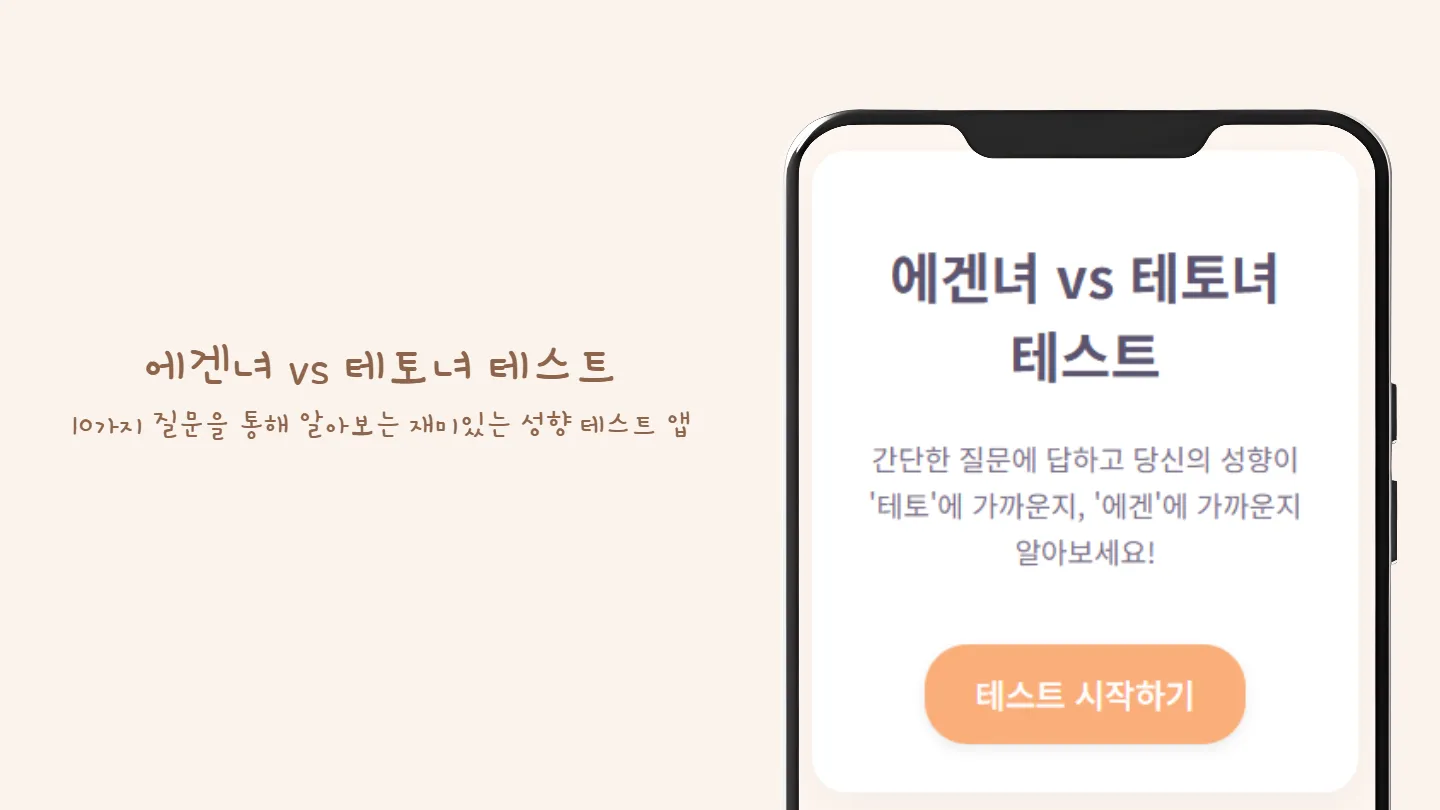
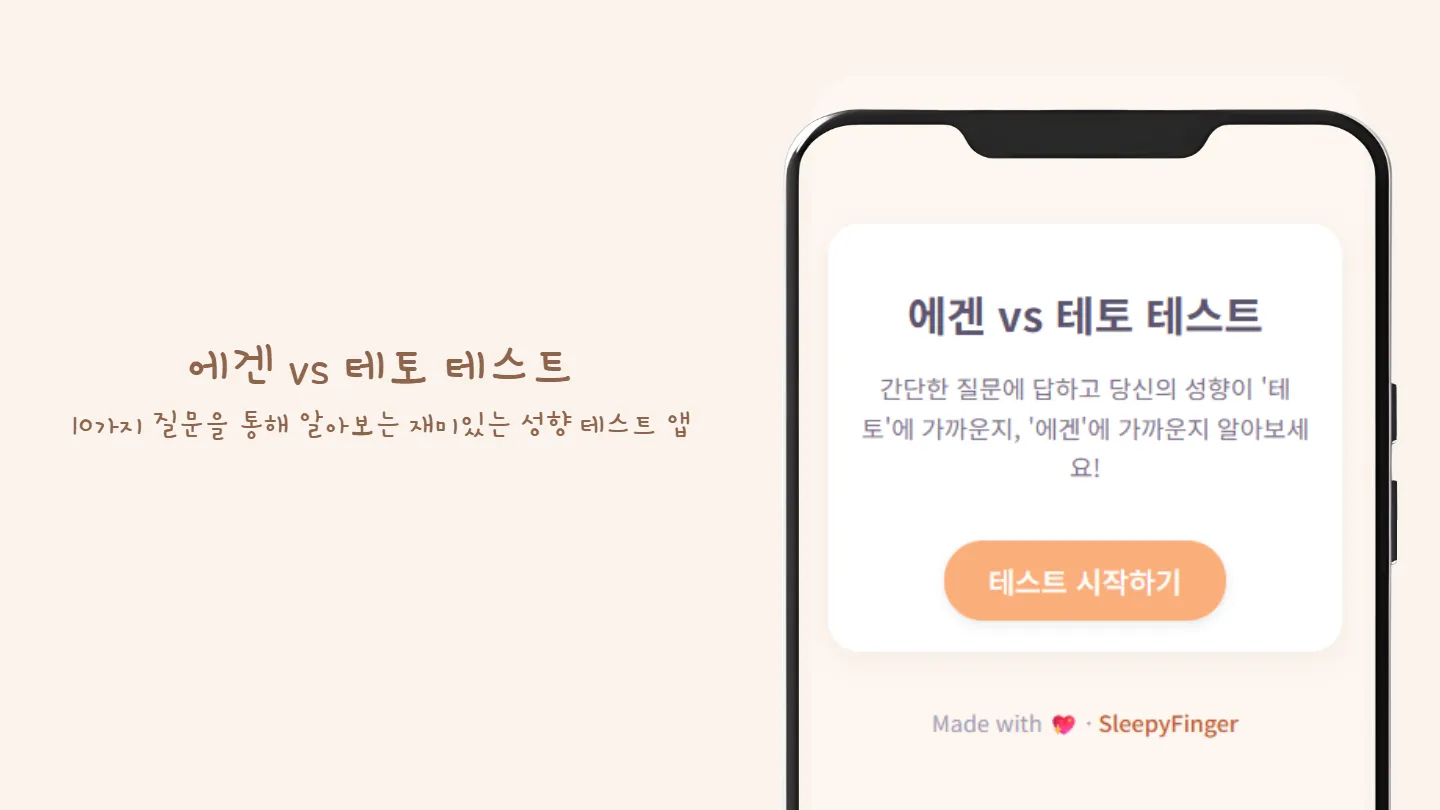
Update title and references in '에겐 vs 테토 테스트' app for consistency

Changed region(s): [[0.5938, 0.3086, 0.9062, 0.9259], [0.2812, 0.4321, 0.4375, 0.4938], [0.0938, 0.4321, 0.1875, 0.4938]]

diff --git a/apps/egen-teto-test/index.html b/apps/egen-teto-test/index.html
@@ -2,7 +2,7 @@
 <html lang="ko">
   <head>
     <meta charset="UTF-8" />
-    <title>에겐녀 테토녀 테스트</title>
+    <title>에겐 테토 테스트</title>
     <meta name="viewport" content="width=device-width, initial-scale=1.0" />
     <style>
       body {
@@ -195,7 +195,7 @@
   </head>
   <body>
     <div class="container">
-      <h1>에겐녀 vs 테토녀 테스트</h1>
+      <h1>에겐 vs 테토 테스트</h1>
 
       <div id="start-screen">
         <p class="description">
@@ -390,9 +390,9 @@
         resultEl.innerHTML = `<div class="icon">${icon}</div><b>${result}</b><br>${desc}`;
 
         lastResultData = {
-          shareApiTitle: "나의 에겐녀 vs 테토녀 테스트 결과!",
+          shareApiTitle: "나의 에겐 vs 테토 테스트 결과!",
           shareApiText: `저는 ${result} ${icon} 입니다! ${desc} 당신도 테스트 해보세요!`,
-          clipboardText: `✨ 나의 에겐녀 vs 테토녀 테스트 결과 ✨\n\n저는 ${result} ${icon} 입니다!\n${desc}\n\n당신도 테스트 해보세요!\n${window.location.href}`,
+          clipboardText: `✨ 나의 에겐 vs 테토 테스트 결과 ✨\n\n저는 ${result} ${icon} 입니다!\n${desc}\n\n당신도 테스트 해보세요!\n${window.location.href}`,
           url: window.location.href,
         };
       }

diff --git a/_apps/egen-teto-test.md b/_apps/egen-teto-test.md
@@ -1,6 +1,6 @@
 ---
 layout: app
-title: "에겐녀 vs 테토녀 테스트"
+title: "에겐 vs 테토 테스트"
 description: "10가지 질문을 통해 알아보는 재미있는 성향 테스트 앱"
 thumbnail: /assets/images/thumbnails/egen-teto-test.webp
 app_folder: /apps/egen-teto-test/
@@ -11,10 +11,10 @@ date: 2025-05-14 11:46:28 +0900
 ---
 
 10가지 질문에 답해보세요!
-나는 에겐녀(차분하고 배려심 많은 내향적 타입)일까, 아니면 테토녀(당당하고 리더십이 강한 외향적 타입)일까?
+나는 에겐(차분하고 배려심 많은 내향적 타입)일까, 아니면 테토(당당하고 리더십이 강한 외향적 타입)일까?
 
-에겐녀는 조용하고 부드러운 분위기를 가진, 감정과 상황을 신중하게 다루는 차분한 성격입니다.  
-테토녀는 솔직하고 추진력이 있으며, 주도적으로 상황을 이끄는 당당한 성격입니다.
+에겐는 조용하고 부드러운 분위기를 가진, 감정과 상황을 신중하게 다루는 차분한 성격입니다.  
+테토는 솔직하고 추진력이 있으며, 주도적으로 상황을 이끄는 당당한 성격입니다.
 
 질문에 솔직하게 답하고, 나와 잘 맞는 유형을 확인해보세요!  
 친구들과 결과를 공유하며 서로의 성향을 비교해 보는 재미도 놓치지 마세요.
